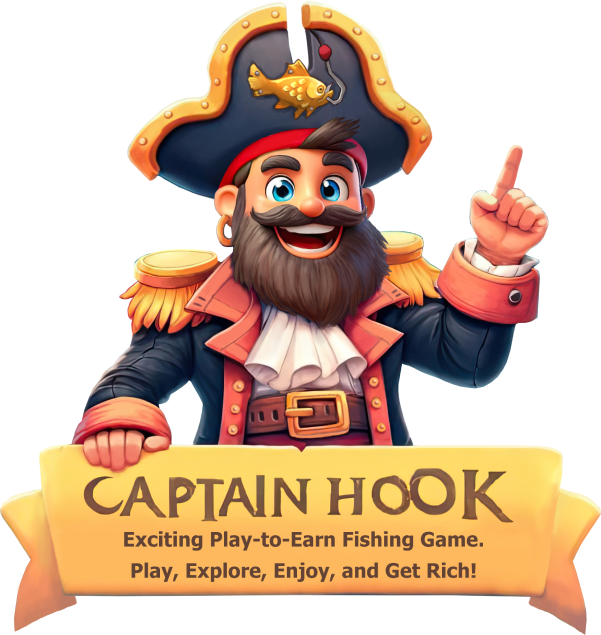
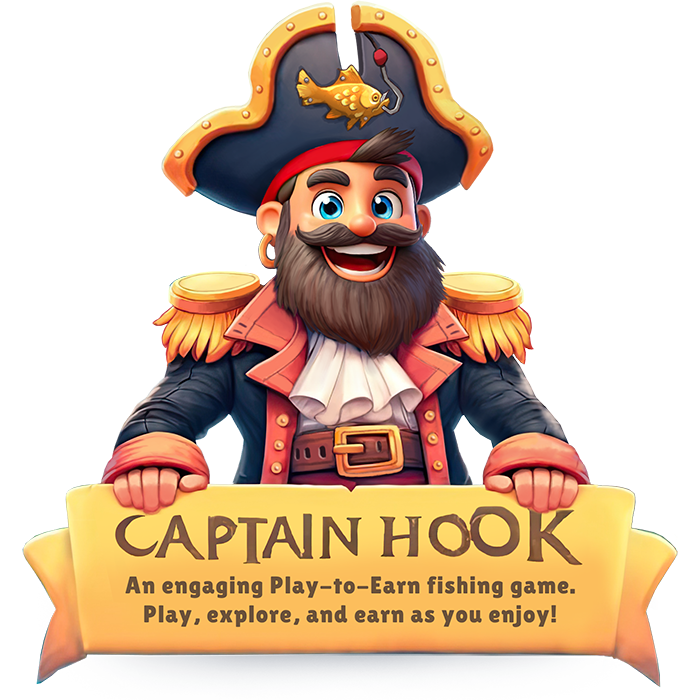
Changed one of rail slider, Captain Hook image and removed popup.

diff --git a/src/components/railSlider/PRLogoSlider.jsx b/src/components/railSlider/PRLogoSlider.jsx
@@ -1,0 +1,80 @@
+import { Swiper, SwiperSlide } from 'swiper/react';
+import { Autoplay } from 'swiper/modules';
+import 'swiper/css';
+import './style.css';
+import { useRef } from 'react';
+
+function PRLogoSlider({ gears, imagesSlider }) {
+    const { src1, src2, src3 } = gears;
+
+    const gear1Ref = useRef(null);
+    const gear2Ref = useRef(null);
+    const gear3Ref = useRef(null);
+    const railRef = useRef(null);
+
+    const handleSlideChange = () => {
+        if (gear1Ref.current) gear1Ref.current.classList.add('rotate');
+        if (gear2Ref.current) gear2Ref.current.classList.add('rotate');
+        if (gear3Ref.current) gear3Ref.current.classList.add('rotate');
+        if (railRef.current) railRef.current.style.setProperty('animation-play-state', 'running');
+
+        // Clear previous timeout
+        const timeout = setTimeout(() => {
+            if (gear1Ref.current) gear1Ref.current.classList.remove('rotate');
+            if (gear2Ref.current) gear2Ref.current.classList.remove('rotate');
+            if (gear3Ref.current) gear3Ref.current.classList.remove('rotate');
+            if (railRef.current) railRef.current.style.setProperty('animation-play-state', 'paused');
+        }, 1500);
+
+        return () => clearTimeout(timeout); // Cleanup on component unmount
+    };
+
+    return (
+        <div className="section-rail relative bg-stick-slider bg-[length:100%_100%] bg-no-repeat pt-[40px] pb-[40px]">
+            <div ref={railRef} className="rail"></div>
+            <img ref={gear1Ref} src={src1} alt="gear" loading="lazy" className="hidden lg:block w-20 absolute z-10 -top-12 left-[calc(23%-2.5rem)]" />
+            <img ref={gear2Ref} src={src2} alt="gear" loading="lazy" className="w-20 absolute z-10 -top-12 left-[calc(50%-2.5rem)]" />
+            <img ref={gear3Ref} src={src3} alt="gear" loading="lazy" className="hidden lg:block w-20 absolute z-10 -top-12 left-[calc(78%-2.5rem)]" />
+            <Swiper
+                slidesPerView={2.5}
+                spaceBetween={20}
+                centeredSlides={true}
+                loop={true}
+                speed={1700}
+                allowTouchMove={false}
+                pagination={{
+                    clickable: true,
+                }}
+                autoplay={{
+                    delay: 2500,
+                    disableOnInteraction: false,
+                }}
+                breakpoints={{
+                    768: {
+                        slidesPerView: 3.5,
+                        spaceBetween: 25,
+                    },
+                    1024: {
+                        slidesPerView: 4.7,
+                        spaceBetween: 25,
+                    },
+                    1280: {
+                        slidesPerView: 5.7,
+                        spaceBetween: 45,
+                    },
+                }}
+                onSlideChange={handleSlideChange}  // Trigger animation on slide change
+                modules={[Autoplay]}
+                className="rail-slider"
+            >
+                {imagesSlider.map((item, index) => (
+                    <SwiperSlide key={index} className='flex items-center'>
+                        <img src={item} alt="image slider" loading="lazy" />
+                    </SwiperSlide>
+                ))}
+            </Swiper>
+        </div>
+    );
+}
+
+export default PRLogoSlider;

diff --git a/src/components/presale/Presale.jsx b/src/components/presale/Presale.jsx
@@ -17,14 +17,14 @@ function Presale() {
                     <Container>
                         <div className="w-full max-w-[850px] mx-auto p-5 mb-5 rounded-[12px] bg-[#ffffff1c]">
                             <p className="open-sans-Medium text-white text-lg text-center mb-3">
-                                The presale accounts for 3.76% of the total supply and is divided into 3 phases, with the token price varying in each phase.
+                                Participants can join the Captain Hook presale on the PinkSale launchpad from December 3rd to December 6th, using Binance Coin (BNB) to purchase $CAPT tokens. To ensure fair participation and prevent oversaturation, the presale has a maximum purchase limit of 6 BNB per user. Hosting the presale on PinkSale ensures enhanced accessibility and transparency for all participants.
                             </p>
-                            <p className="open-sans-Medium text-light-red text-lg text-center">
+                            {/* <p className="open-sans-Medium text-light-red text-lg text-center">
                                 Our plan is precise. We stick to our schedule without deviation, not even by a single day.
-                            </p>
+                            </p> */}
                         </div>
                         <div className="flex justify-center">
-                            <BigButton text={"Buy $CAPT Now"} link={"#"} />
+                            <BigButton text={"Buy $CAPT Now"} link={"https://www.pinksale.finance/launchpad/bsc/0x132969683f9A983374113a7d42832716F914477e"} />
                         </div>
                         <div className="flex items-center flex-wrap justify-center gap-5 2xl:gap-10 mt-5 2xl:mt-20 translate-y-[150px] lg:translate-y-[0px]">
                             <Stage />

diff --git a/src/App.jsx b/src/App.jsx
@@ -2,6 +2,7 @@ import Footer from "./components/footer/Footer";
 import Header from "./components/header/Header";
 import Parallax from "./components/parallax/Parallax";
 import RailSlider from "./components/railSlider/RailSlider";
+import PRLogoSlider from "./components/railSlider/PRLogoSlider";
 import Play from "./components/play/Play";
 import Gear from "/gear.png";
 import Gear2 from "/gear-2.png";
@@ -13,6 +14,18 @@ import Capt from "./components/capt/Capt";
 import Roadmap from "./components/roadmap/Roadmap";
 import Team from "./components/team/Team";
 import Faq from "./components/faq/Faq";
+import pr1 from "/pr-logo-1.png"
+import pr2 from "/pr-logo-2.png"
+import pr3 from "/pr-logo-3.png"
+import pr4 from "/pr-logo-4.png"
+import pr5 from "/pr-logo-5.png"
+import pr6 from "/pr-logo-6.png"
+import pr7 from "/pr-logo-7.png"
+import pr8 from "/pr-logo-8.png"
+import pr9 from "/pr-logo-9.png"
+import pr10 from "/pr-logo-10.png"
+import pr11 from "/pr-logo-11.png"
+import pr12 from "/pr-logo-12.png"
 import img1 from "/1.png";
 import img2 from "/2.png";
 import img3 from "/3.png";
@@ -34,12 +47,12 @@ function App() {
 
   return (
     <main className="w-full max-w-[1920px] mx-auto overflow-hidden">
-      <Popup />
+      {/* <Popup /> */}
       <Header />
       <Parallax />
-      <RailSlider
+      <PRLogoSlider
         gears={{ src1: Gear, src2: Gear, src3: Gear, }}
-        imagesSlider={[img5, img3, img2, img4, img5, img3, img2, img4, img5, img3, img2, img4,]}
+        imagesSlider={[pr1, pr2, pr3, pr4, pr5, pr6, pr7, pr8, pr9, pr10, pr11, pr12]}
       />
       <Play />
       <About />

diff --git a/src/components/parallax/Parallax.jsx b/src/components/parallax/Parallax.jsx
@@ -11,7 +11,7 @@ import Chest from "/chest.png";
 import Shark from "/shark.png";
 import BalloonLeft from "/balloon-left.png";
 import BalloonRight from "/balloon-right.png";
-import Capitan from "/capitan-hook.png";
+import Capitan from "/capitan-hook.png"
 import Capitan2 from "/capitan-hook-2.png";
 import Presale from "/presale.png";
 import Container from "../container/Container";
@@ -83,7 +83,7 @@ function ParallaxSection() {
                     <img src={BalloonRight} alt="balloon" loading="lazy" className="balloon-right hidden xl:block w-[150px] 2xl:w-[180px] absolute z-[15] right-[250px] top-[200px]" />
                 </div>
                 <div className="w-full h-full">
-                    <img src={Capitan} alt="balloo" loading="lazy" className="md:hidden w-[300px] absolute z-[14] right-[calc(50%-150px)] bottom-[50px]" />
+                    <img src={Capitan} alt="balloo" loading="lazy" className="md:hidden w-[300px] absolute z-[14] right-[calc(50%-150px)] bottom-[80px]" />
                     <img src={Capitan2} alt="balloo" loading="lazy" className="hidden md:block w-[350px] lg:w-[400px] xl:w-[500px] 2xl:w-[600px] absolute z-[14] right-[calc(50%-175px)] lg:right-[calc(50%-200px)] xl:right-[calc(50%-250px)] 2xl:xl:right-[calc(50%-300px)] bottom-[80px] 2xl:bottom-[150px]" />
                 </div>
                 <div className="w-full h-full">

diff --git a/src/components/capt/Capt.jsx b/src/components/capt/Capt.jsx
@@ -32,7 +32,7 @@ function Capt() {
                             </p>
                         </div>
                         <div className="flex justify-center">
-                            <BigButton text={"Buy $CAPT Now"} link={"#"} />
+                            <BigButton text={"Buy $CAPT Now"} link={"https://www.pinksale.finance/launchpad/bsc/0x132969683f9A983374113a7d42832716F914477e"} />
                         </div>
                     </Container>
                 </div>

diff --git a/src/components/header/Header.jsx b/src/components/header/Header.jsx
@@ -25,7 +25,7 @@ function Header() {
         <>
             <HeaderDesktop onShow={handleHideAndShowMenu} onClosePopup={handleClosePopup} />
             <HambergerMenu onClose={handleHideAndShowMenu} onClosePopup={handleClosePopup} isClose={close} />
-            <Popup onClosePopup={handleClosePopup} popup={popup} />
+            {/* <Popup onClosePopup={handleClosePopup} popup={popup} /> */}
         </>
     );
 }

diff --git a/data/data.js b/data/data.js
@@ -7,7 +7,7 @@ const DATA = {
         { id: 5, text: "Team" },
         { id: 6, text: "FAQ" },
         { id: 7, text: "Giveaway" },
-        { id: 8, text: "VIP Club" },
+        // { id: 8, text: "VIP Club" },
     ],
     HEADER_RIGHT: [
         { id: 1, text: "AUDIT", link: "https://app.solidproof.io/projects/captain-hook" },
